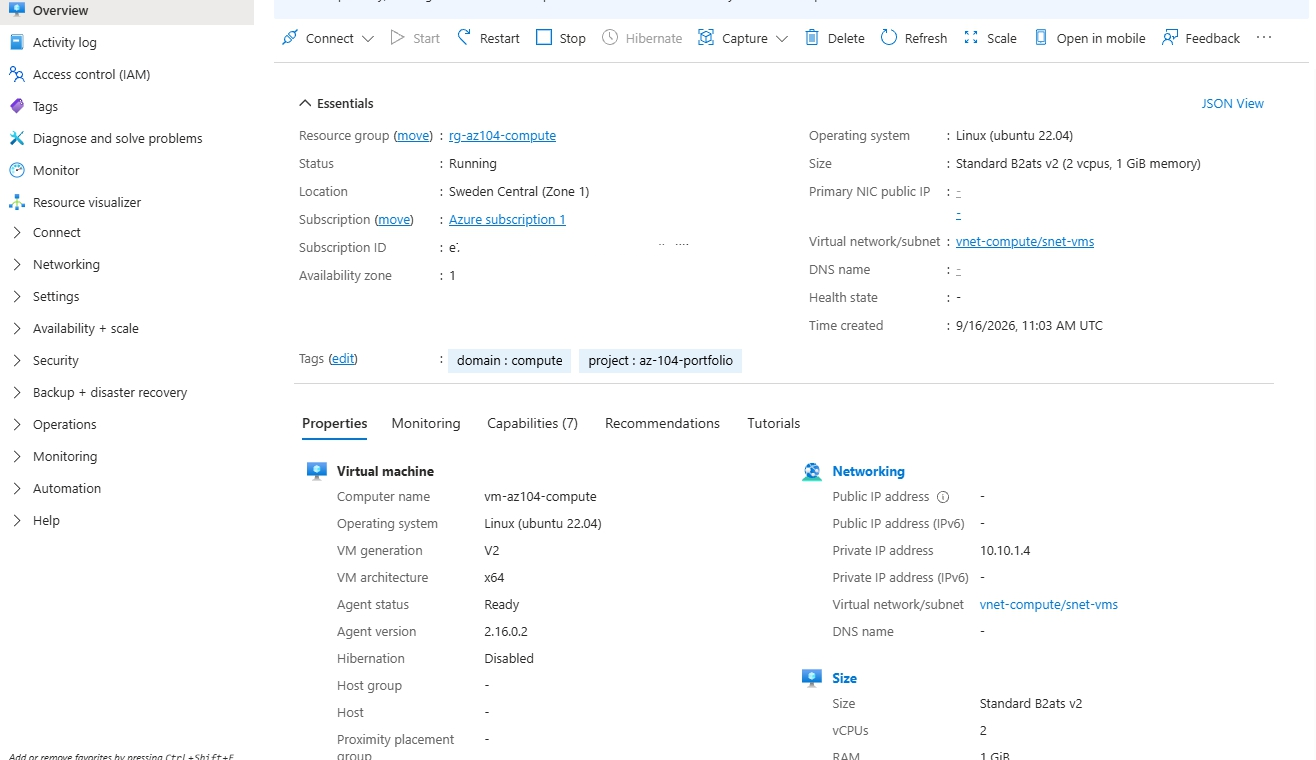
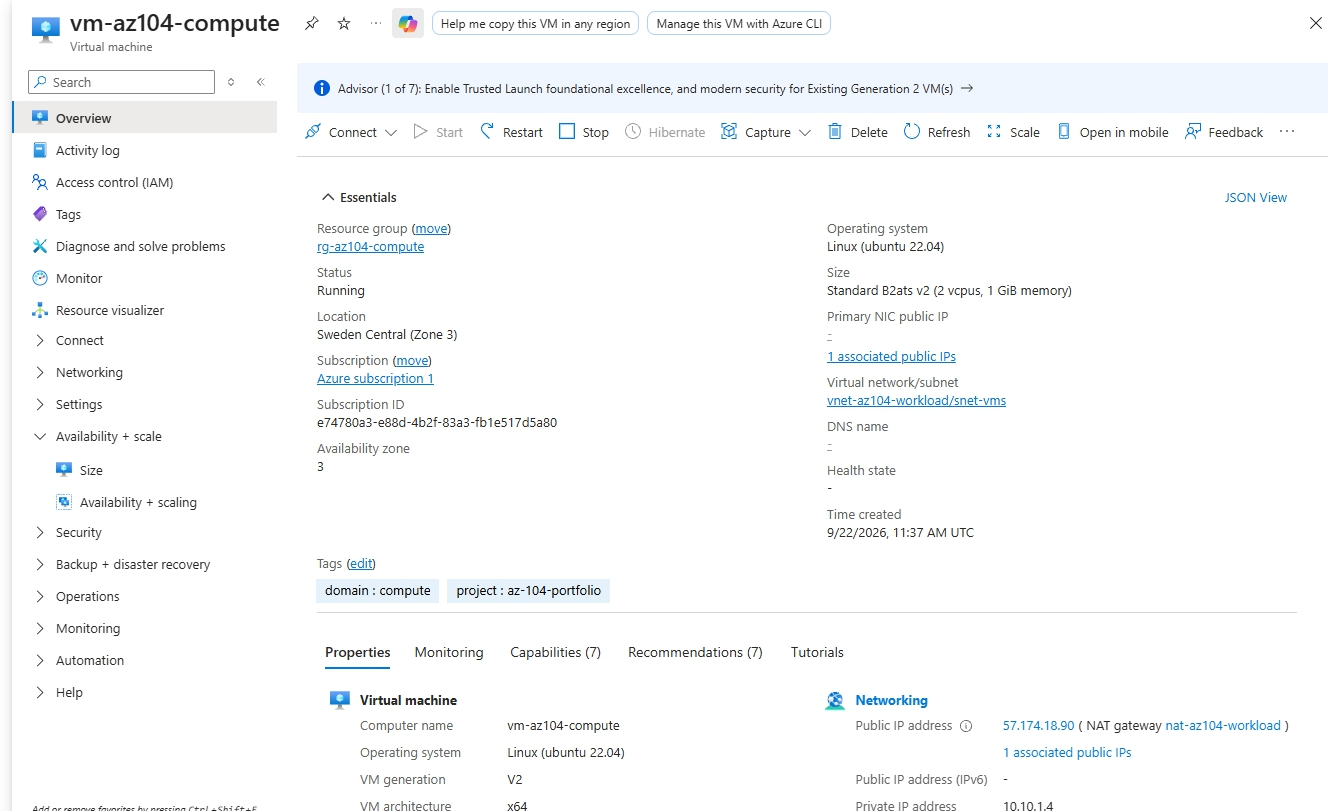
Document exercises 03 and 04: compute, scale set autoscale, and the network foundation

diff --git a/documentation/exercises/03-compute.md b/documentation/exercises/03-compute.md
@@ -1,96 +1,124 @@
-# Exercise 03 - Compute (Virtual Machines)
+# Exercise 03 - Compute (Virtual Machines and Scale Sets)
 
 Terraform source: `terraform/exercises/03-compute/`
 Exam domain: Deploy and manage Azure compute resources (20-25% of AZ-104)
 
 ## What was built
 
-- A resource group (`rg-az104-compute`)
-- A minimal virtual network and subnet (`vnet-compute` / `snet-vms`,
-  `10.10.0.0/16` / `10.10.1.0/24`) - just enough for the VM to attach to;
-  peering, endpoints, and deeper NSG rules are exercise 04's job
-- A network security group with no custom rules - Azure's built-in defaults
-  already deny inbound internet traffic and allow VNet-internal traffic,
-  which is correct for a VM with no public IP
-- A Linux VM (`vm-az104-compute`):
-  - `Standard_B2ats_v2` size, deployed into availability zone 1
-  - SSH-key authentication only (no password auth)
-  - 64 GiB Premium SSD OS disk - the specific size/tier that qualifies this
-    VM size for the Azure free account's 750 free hours/month
-  - Encryption at host enabled
-  - A small (4 GiB) Standard HDD data disk, attached separately from the
-    OS disk, to demonstrate disk management as its own concept
-- No public IP - intentional. Adding one (or Azure Bastion) is a deliberate
-  cost/access tradeoff left for the networking exercise rather than added
-  here by default.
+- Resource group `rg-az104-compute`
+- A Linux VM `vm-az104-compute` (optional, see `deploy_single_vm`):
+  `Standard_B2ats_v2`, availability zone 3, SSH keys only, 64 GiB Premium SSD
+  OS disk, encryption at host, plus a separate 4 GiB Standard HDD data disk
+- A Linux VM scale set `vmss-az104-compute` in **Flexible orchestration**:
+  same size, zones 1-3, Standard SSD OS disks, starts at 1 instance
+- A CPU-based autoscale setting: min 1, max 2, scale out above 75% average
+  CPU over 5 minutes, scale in below 25%, 5-minute cooldown
 
-No resource lock this time, unlike exercise 01 - a VM is something you want
-to tear down quickly to stop the clock on free-tier hours or avoid cost,
-not something to protect from deletion.
+Networking (VNet, subnets, NSGs, NAT gateway) is **not** part of this
+exercise - it lives in exercise 04 and its own resource group. This
+exercise reads 04's `subnet_ids` output via `terraform_remote_state`, so
+04 is applied first and destroyed last.
 
-## Note: exercise 02 is still pending
+## Notable decisions
 
-Numbering jumps from 01 (governance) straight to 03 (compute) because
-exercise 02 - storage, AZ-104's "Implement and manage storage" domain -
-hasn't been built yet. Flagging this here so the gap is visible rather than
-silently skipped; it'll be filled in and this note removed once it exists.
-
-## About the "default outbound access" portal alert
-
-After deploying, the VM's Overview blade shows an alert: *"Your VM has a
-default outbound IP, which is insecure and will no longer be assigned by
-default for new subnets after March 2026."* This is expected here, not a
-misconfiguration:
-
-- The subnet has no explicit outbound method attached - no NAT gateway, no
-  public IP on the NIC, no standard load balancer with outbound rules, no
-  UDR to a firewall/NVA. Without one of those, Azure transparently assigns
-  a Microsoft-owned "default outbound" public IP so the VM can still reach
-  the internet/Azure endpoints. That implicit fallback is what triggers
-  the alert.
-- This behavior is being retired for *new* deployments only: virtual
-  networks created via API versions released after March 31, 2026 default
-  new subnets to `defaultOutboundAccess = false` ("private"), requiring an
-  explicit outbound method. Existing VNets/subnets aren't retroactively
-  changed.
-- The fix - a NAT gateway as the explicit outbound method - is deliberately
-  deferred to exercise 04 (networking) to keep this exercise's resource set
-  focused on compute concepts. The alert is left in place here and
-  destroyed with everything else when the exercise is torn down.
+- **Flexible over Uniform orchestration.** Flexible is Microsoft's current
+  recommendation and the portal default; instances are ordinary VMs you can
+  manage individually. Uniform's explicit upgrade policy (Manual /
+  Automatic / Rolling) still appears on the exam.
+- **`lifecycle { ignore_changes = [instances] }`** on the scale set, so
+  autoscale owns the instance count and `terraform apply` doesn't reset it.
+- **`deploy_single_vm` toggle** to remove the VM and free its 2 vCPUs
+  when the scale set needs the room.
+- **`ignore_changes = [vm_agent_platform_updates_enabled]`** on the VM
+  module. Azure turns that setting on by itself after deployment, which
+  otherwise shows as drift on every plan.
 
 ## Terraform outputs
 
+Final apply, with the single VM switched off:
+
 ```
 resource_group_name = "rg-az104-compute"
-vm_id                = "/subscriptions/<subscription-id>/resourceGroups/rg-az104-compute/providers/Microsoft.Compute/virtualMachines/vm-az104-compute"
-vm_private_ip        = "10.10.1.4"
-data_disk_id         = "/subscriptions/<subscription-id>/resourceGroups/rg-az104-compute/providers/Microsoft.Compute/disks/vm-az104-compute-data"
+vmss_id             = "/subscriptions/<subscription-id>/resourceGroups/rg-az104-compute/providers/Microsoft.Compute/virtualMachineScaleSets/vmss-az104-compute"
+vmss_name           = "vmss-az104-compute"
+vm_id               = null
+vm_private_ip       = null
+data_disk_id        = null
 ```
 
-(subscription ID redacted before committing - it's not a secret, but no reason to publish it on a public repo)
+The VM outputs use `one(module.vm[*]...)`, so they return `null` instead of
+failing when `deploy_single_vm = false`.
 
 ## Verification in the Azure portal
 
 | # | Screenshot | What it shows |
 |---|---|---|
-| 1 | `screenshots/01-vm-overview.png` | VM size (`Standard_B2ats_v2`), zone 1, region Sweden Central |
-| 2 | `screenshots/02-disks-and-encryption.png` | OS disk (64 GiB Premium SSD), attached data disk, encryption-at-host status |
-| 3 | `screenshots/03-networking.png` | Private IP `10.10.1.4`, confirming no public IP is attached |
-| 4 | `screenshots/04-default-outbound-alert.png` | The portal's default-outbound-IP alert - evidence of relying on implicit outbound access (explained above) |
+| 1 | `screenshots/01-vm-overview.png` | VM size, zone 3, Sweden Central, no default-outbound alert |
+| 2 | `screenshots/02-disks-and-encryption.png` | 64 GiB Premium SSD OS disk, attached data disk, encryption at host |
+| 3 | `screenshots/03-networking.png` | Private IP in `vnet-az104-workload/snet-vms`, no public IP |
+| 4 | `screenshots/04-outbound-via-nat.png` | `curl api.ipify.org` from the VM returning the NAT gateway's public IP |
+| 5 | `screenshots/05-vmss-overview.png` | Flexible orchestration, `Standard_B2ats_v2`, zones 1-3 |
+| 6 | `screenshots/06-vmss-autoscale-rules.png` | Autoscale rules: >75% out, <25% in, min 1 / max 2 / default 1 |
+| 7 | `screenshots/07-vmss-cpu-metric.png` | CPU at 100% during the stress test |
+| 8 | `screenshots/08-vmss-autoscale-scale-out.png` | "Autoscale scale up completed", observed capacity 2 |
+| 9 | `screenshots/09-vmss-instances-zones.png` | Two instances: one Running, one Creating (allocation later failed - see below) |
+| 10 | `screenshots/10-vmss-autoscale-scale-in.png` | Scale-in back to 1 after CPU dropped |
+
+CPU load was generated with `az vm run-command invoke` and
+`systemd-run --unit=cpu-stress timeout 900 sh -c 'yes > /dev/null & yes > /dev/null & wait'` -
+no package install needed, which matters because the instances only reach
+the internet through the NAT gateway.
+
+## Troubleshooting log
+
+Everything below actually happened while building this exercise. All of it
+is exam-relevant.
+
+**1. vCPU quota, and deallocated VMs still count.**
+The free trial allows 4 Total Regional vCPUs. With the VM (2 vCPUs) plus one
+scale set instance (2), autoscale's second instance failed with
+`OperationNotAllowed ... exceeding approved Total Regional Cores quota`.
+Deallocating the VM did not help: quota counts the cores of every VM that
+exists, allocated or deallocated
+([Check vCPU quotas](https://learn.microsoft.com/azure/virtual-machines/quotas)).
+Removing the VM (`deploy_single_vm = false`) is what frees quota.
+
+**2. Quota is released with a delay, and the usage view lags.**
+Creating something straight after deleting a VM repeatedly failed on quota
+even though `az vm list-usage` already showed the lower number. Azure's
+allocator and the usage API catch up at different speeds. Fix: wait a few
+minutes between a delete and a create that needs those cores.
+
+**3. Quota is not capacity.**
+`ZonalAllocationFailed` (starting the VM in zone 1) and
+`OverconstrainedZonalAllocationRequest` (creating the scale set in zones 1
+and 2) are capacity errors: Azure simply had no free hardware of that size
+in those zones. A quota increase doesn't help. Fixes: allow more zones
+(`vmss_zones = ["1","2","3"]`), choose another size, or another region.
+
+**4. "Scale up completed" does not mean the instance exists.**
+The autoscale run history can show *scale up completed* while the new VM
+never allocates. The autoscale engine only reports that it set the new
+target capacity. The activity log is where the VM-level failure shows up.
+
+**5. A failed apply can leave resources behind that aren't in state.**
+Twice, a failed scale set creation left a scale set in Azure that Terraform
+didn't know about, so the next apply failed with "already exists". After a
+failed apply, check with `az resource list -g <rg>` before retrying.
+
+**6. Terraform can't destroy a deallocated VM.**
+The provider powers a VM off before deleting it, and Azure rejects
+`powerOff` on an already-deallocated VM with `409 Conflict`. The destroy
+stops there, leaving the NIC, subnet, VNet and resource group behind. Fix:
+start the VM first, then destroy. If it can't start (no capacity), use
+`az vm delete`, then delete the OS disk the CLI leaves behind, then destroy.
 
 ## What this demonstrates for AZ-104
 
-- Creating and sizing a virtual machine
-- Deploying to an availability zone
-- Managing VM disks: OS disk configuration and an attached data disk
-- Configuring encryption at host
-- SSH-key-based authentication instead of passwords (RSA only, on Azure)
-- Basic virtual network/subnet/NSG as compute prerequisites (deeper
-  networking topics are exercise 04)
-- Default outbound access vs. explicit outbound methods (NAT gateway,
-  public IP, load balancer, UDR) - exam-relevant given the March 2026
-  behavior change for new subnets
-
-Not covered here: moving a VM to another resource group/subscription/region
-(an operational action better demonstrated live than as a persistent
-Terraform resource), and VM Scale Sets (planned as a follow-up addition).
+- Creating and sizing VMs, availability zones, disks and encryption at host
+- SSH-key authentication instead of passwords (Azure requires RSA here)
+- VM scale sets: Flexible vs Uniform, zone spreading, autoscale rules,
+  cooldowns, and manual scaling with `az vmss scale`
+- Reading failures out of the Azure activity log
+- vCPU quota vs regional capacity, and how each one is fixed
+- Layering Terraform configurations with `terraform_remote_state`

diff --git a/documentation/exercises/04-networking.md b/documentation/exercises/04-networking.md
@@ -1,0 +1,82 @@
+# Exercise 04 - Networking (step 1: network foundation)
+
+Terraform source: `terraform/exercises/04-networking/`
+Exam domain: Implement and manage virtual networking (15-20% of AZ-104)
+
+## What was built
+
+- Resource group `rg-az104-networking` - networking gets its own resource
+  group, separate from the workloads that use it
+- Virtual network `vnet-az104-workload` (`10.10.0.0/16`) with two subnets:
+  - `snet-vms` (`10.10.1.0/24`) for the single VM in exercise 03
+  - `snet-vmss` (`10.10.2.0/24`) for the scale set in exercise 03
+- One NSG per subnet: `nsg-vms` and `nsg-vmss`, with no custom rules yet.
+  Azure's default rules already allow VNet-internal traffic and deny
+  inbound internet traffic.
+- NAT gateway `nat-az104-workload` (Standard SKU, no zone) with a static,
+  zone-redundant Standard public IP, attached to both subnets
+
+## Notable decisions
+
+- **Private subnets (`default_outbound_access_enabled = false`).** No
+  implicit "default outbound" public IP. This is Azure's default for new
+  VNets since March 2026, and it removes the portal's default-outbound
+  warning that exercise 03 showed before this exercise existed.
+- **NAT gateway as the explicit outbound method.** Needed by more than just
+  the VM: **Flexible scale sets never get default outbound access**, and
+  instances created by autoscale need an explicit outbound method
+  ([scale set networking](https://learn.microsoft.com/azure/virtual-machine-scale-sets/virtual-machine-scale-sets-networking#explicit-network-outbound-connectivity-for-flexible-scale-sets)).
+  Before the NAT gateway existed, `apt-get update` on a scale set instance
+  timed out against Ubuntu's mirrors.
+- **Standard SKU, "no zone".** Azure picks the zone; if it fails, outbound
+  stops for both subnets. The newer StandardV2 SKU is zone-redundant and
+  would be the production choice.
+- **Public IP zones declared as `["1","2","3"]`.** Standard public IPs are
+  zone-redundant by default now, so saying so explicitly keeps Terraform's
+  state in line with what Azure creates and avoids drift.
+- **Networking as its own layer.** Exercise 03 reads this exercise's
+  outputs with `terraform_remote_state`, which mirrors the common split of
+  a shared network layer and separate workload layers. Apply order is 04
+  then 03; destroy order is the reverse.
+
+## Terraform outputs
+
+```
+resource_group_name = "rg-az104-networking"
+vnet_name           = "vnet-az104-workload"
+vnet_id             = "/subscriptions/<subscription-id>/resourceGroups/rg-az104-networking/providers/Microsoft.Network/virtualNetworks/vnet-az104-workload"
+subnet_ids          = {
+  "snet-vms"  = ".../subnets/snet-vms"
+  "snet-vmss" = ".../subnets/snet-vmss"
+}
+nat_public_ip       = "57.174.18.90"
+```
+
+`subnet_ids` and `nat_public_ip` are the interface other exercises depend
+on. Renaming an output breaks exercise 03 at plan time.
+
+## Verification in the Azure portal
+
+| # | Screenshot | What it shows |
+|---|---|---|
+| 1 | `screenshots/01-vnet-subnets.png` | Both subnets with their NSGs (`nsg-vms`, `nsg-vmss`) and address ranges |
+| 2 | `screenshots/02-nat-gateway-subnets.png` | NAT gateway attached to both subnets of `vnet-az104-workload` |
+
+Outbound was verified from the VM in exercise 03: `curl api.ipify.org`
+returned the NAT gateway's public IP (screenshot 04 of exercise 03).
+
+## What this demonstrates for AZ-104
+
+- Creating virtual networks and subnets, and associating NSGs with subnets
+- Private subnets and default outbound access, including the March 2026
+  change
+- NAT gateways as an explicit outbound method, and why Flexible scale sets
+  require one
+- Standard public IP SKUs and zone redundancy
+- Splitting infrastructure into layers with a stable output contract
+
+## Still to come in this exercise
+
+VNet peering, user-defined routes, application security groups, Azure
+Bastion, service and private endpoints, Azure DNS, load balancers, and an
+`import` exercise that brings a hand-created resource under Terraform.
